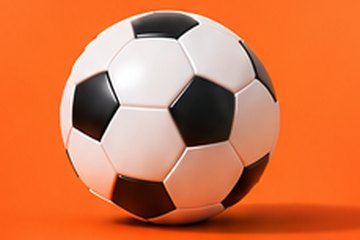
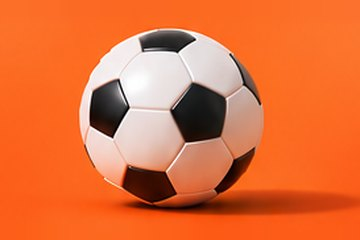
Photos des sports : l'objet toujours entier, avec de l'air autour
Claude-Session: https://claude.ai/code/session_01FDNBqmKmFA6Re7p9vrnkC1

diff --git a/scripts/decouper_sports.py b/scripts/decouper_sports.py
@@ -33,7 +33,10 @@ PLANCHE = [
 
 RAPPORT = 3 / 2  # largeur / hauteur de l'image finale
 TAILLE = (360, 240)  # assez pour une tuile d'environ 110 px de large en ×3
-RETRAIT = 14  # on enlève les coins arrondis de chaque carte
+RETRAIT_COTES = 14  # on enlève les coins arrondis de chaque carte…
+RETRAIT_HAUT_BAS = 3  # …sans couper le haut des ballons
+MARGE_COTES = 0.12  # de l'air autour de l'objet, en part de sa taille
+MARGE_HAUT_BAS = 0.16
 
 
 def plages(profil: list[float], seuil: float = 0.8) -> list[tuple[int, int]]:
@@ -78,38 +81,40 @@ def boite_objet(carte: Image.Image) -> tuple[int, int, int, int]:
     return min(xs), min(ys), max(xs), max(ys)
 
 
-def recadrer(carte: Image.Image) -> Image.Image:
+def prolonger(carte: Image.Image, ajout: int) -> Image.Image:
+    """La carte avec `ajout` pixels de fond en plus en haut et en bas : colonne par colonne, la teinte
+    du bord (les pixels de l'objet sont ignorés), jointure fondue là où il n'y a que du fond"""
     l, h = carte.size
-    x0, y0, x1, y1 = boite_objet(carte)
-    marge = 0.14
-    largeur = max(int((x1 - x0) * (1 + 2 * marge)), int(h * RAPPORT))
-    largeur = min(largeur, l)
-    hauteur = int(largeur / RAPPORT)
-    cx = (x0 + x1) // 2
-    gauche = max(0, min(l - largeur, cx - largeur // 2))
-    bande = carte.crop((gauche, 0, gauche + largeur, h))
-    if hauteur <= h:
-        cy = (y0 + y1) // 2
-        haut = max(0, min(h - hauteur, cy - hauteur // 2))
-        return bande.crop((0, haut, largeur, haut + hauteur))
-    # Objet trop large : on prolonge le fond en haut et en bas, colonne par colonne, avec la teinte
-    # du bord (les pixels de l'objet sont ignorés), et on fond la jointure là où il n'y a que du fond
-    ajout = hauteur - h
-    dessus = ajout // 2
-    toile = Image.new('RGB', (largeur, hauteur))
-    milieu = dessus + h // 2
-    toile.paste(ligne_bord(bande, 0, 8).resize((largeur, milieu), Image.NEAREST), (0, 0))
-    toile.paste(ligne_bord(bande, h - 8, h).resize((largeur, hauteur - milieu), Image.NEAREST), (0, milieu))
+    hauteur = h + 2 * ajout
+    toile = Image.new('RGB', (l, hauteur))
+    milieu = ajout + h // 2
+    toile.paste(ligne_bord(carte, 0, 8).resize((l, milieu), Image.NEAREST), (0, 0))
+    toile.paste(ligne_bord(carte, h - 8, h).resize((l, hauteur - milieu), Image.NEAREST), (0, milieu))
     fondu = 16
-    masque = Image.new('L', (largeur, h), 255)
-    mp, bp = masque.load(), bande.load()
+    masque = Image.new('L', (l, h), 255)
+    mp, bp = masque.load(), carte.load()
     for y in range(h):
         a = min(255, int(255 * min(y, h - 1 - y) / fondu))
         if a < 255:
-            for x in range(largeur):
+            for x in range(l):
                 mp[x, y] = a if est_fond(bp[x, y]) else 255
-    toile.paste(bande, (0, dessus), masque)
+    toile.paste(carte, (0, ajout), masque)
     return toile
+
+
+def recadrer(carte: Image.Image) -> Image.Image:
+    """Cadre 3:2 qui contient TOUT l'objet, avec de l'air autour (le fond est prolongé si besoin)"""
+    l, h = carte.size
+    x0, y0, x1, y1 = boite_objet(carte)
+    largeur = max((x1 - x0) * (1 + 2 * MARGE_COTES), (y1 - y0) * (1 + 2 * MARGE_HAUT_BAS) * RAPPORT)
+    largeur = int(min(largeur, l))
+    hauteur = int(largeur / RAPPORT)
+    ajout = h  # largement assez de fond en haut et en bas
+    grande = prolonger(carte, ajout)
+    cx, cy = (x0 + x1) // 2, (y0 + y1) // 2 + ajout
+    gauche = max(0, min(l - largeur, cx - largeur // 2))
+    haut = cy - hauteur // 2
+    return grande.crop((gauche, haut, gauche + largeur, haut + hauteur))
 
 
 def ligne_bord(image: Image.Image, ya: int, yb: int) -> Image.Image:
@@ -139,7 +144,7 @@ def main() -> None:
     os.makedirs(SORTIE, exist_ok=True)
     for (ya, yb), noms in zip(rangees, PLANCHE):
         for (xa, xb), nom in zip(colonnes, noms):
-            carte = planche.crop((xa + RETRAIT, ya + RETRAIT, xb - RETRAIT, yb - RETRAIT))
+            carte = planche.crop((xa + RETRAIT_COTES, ya + RETRAIT_HAUT_BAS, xb - RETRAIT_COTES, yb - RETRAIT_HAUT_BAS))
             image = recadrer(carte).resize(TAILLE, Image.LANCZOS)
             image.save(os.path.join(SORTIE, f'{nom}.jpg'), quality=86, optimize=True, progressive=True)
             print(nom, image.size)

diff --git a/CLAUDE.md b/CLAUDE.md
@@ -81,7 +81,7 @@ Les fichiers `design/canvas/*.dc.html` sont générés par `design/canvas/genere
 - **La carte revue (25 novembre, 4 choix de Maxime après maquettes : https://claude.ai/artifact/WopYaEQW5861Vg2SdVLMt4)** : **pastilles P2** = anneau segmenté (un trait par joueur, `lib/anneau-places.ts`, testé) avec le picto, étiquette de l'heure posée dessus (`etiquettePastille`, `etiquetteGroupe` dans `lib/formats.ts`), orange à 1-2 places, rouge en direct ; bulle = disque pointillé avec le nombre ; zone de toucher recalculée (`PASTILLE`, `taillePastille` dans `lib/regroupement-sessions.ts`). **Fiche F3** (`components/fiche-session.tsx`) : bandeau rouge, phrase « Foot à 5 dans 3 h, à 3 km » (`quandFiche`, testé), Catch blanc dedans (`BoutonCatch surBandeau`), ligne lieu + places dessous. **Carte vide A** (`components/ligne-carte-vide.tsx`) : une ligne « Rien à 5 km · Voir à 9 km › » (remplace `carte-plus-proche`). **Barre du haut B2** (`components/barre-haut.tsx` + `components/menu-filtre.tsx`) : pastille « catch | Tous les sports ⌄ » qui ouvre un menu de tuiles de sports avec le nombre de sessions, + rond Liste/Carte ; **remplace l'étoile, sa feuille, le petit message et la bulle** (`toast-mes-sports`, `FeuilleMesSports`, `BulleMesSports` supprimés ; `GrilleMesSports` reste pour Profil > Mes sports). Depuis « Tous les sports », toucher un sport le choisit seul (`choisirSeul`). Le choix reste enregistré sur le téléphone comme avant. Vu sur le web en clair et en sombre, **pas sur un vrai iPhone** (à regarder : anneaux sur Apple Plans, bords pointillés des bulles, menu des sports).
 - **Terrains en bandeau dans Mes sessions (25 novembre, demande de Maxime)** : chaque carte de l'onglet Mes sessions a en haut l'illustration du terrain de son sport (18 sports), « Tu organises » posé dessus. Les images ne sont pas dessinées à l'œil : `scripts/generer_terrains.py` construit chaque terrain en 3D à partir des **dimensions officielles** (FIFA, FIBA, FIVB, ITF, FIP, BWF, WSF, ITTF, World Rugby, WFDF, piste de 400 m…) et le met en perspective (`design/terrains/*.svg`), puis `node scripts/rendre_terrains.mjs` les rend en JPEG (`assets/terrains/*.jpg`, ~48 Ko chacune ; branchées dans `donnees/terrains.ts`). Modifier le script, pas les images. **Refaites le 25 novembre (Maxime : « il manque un designer »)** : cadrage serré sur ce qui fait reconnaître le sport (but et penalty, raquette et panier…), ombres portées du soleil, grain, ballon ; toujours tout en orange (demande de Maxime). Maxime veut les confier à un illustrateur professionnel : dossier remis avec les SVG, des PNG 2400 × 1200 et un brief (dimensions officielles, palette, format 2:1 coupé en bandeau). Quand il rendra ses images : les mettre en JPEG dans `assets/terrains/` (mêmes noms) et ne plus lancer le script. Pas encore dans les tuiles de Créer (Maxime : « peut-être par après »). Pas vu sur un vrai iPhone.
 
-- **Photos des sports dans les tuiles (25 novembre, demande de Maxime)** : quand on choisit un sport, dans Créer (étape « sport », 3 par rangée) et dans Profil > Mes sports, chaque tuile montre la photo du sport sur fond orange (planche fournie par Maxime : `design/sports/planche-sports.png`), le nom dessous ; choisie = contour couleur encre + coche rouge, la photo se tasse sous le doigt (`components/tuile-sport.tsx`). Les images sont découpées par `python3 -I scripts/decouper_sports.py` (recadrées en 3:2 autour de l'objet, fond prolongé si besoin) vers `assets/sports/*.jpg`, branchées dans `donnees/images-sports.ts` : remplacer la planche et relancer le script, pas retoucher les images. Le menu des sports de la carte garde ses pictos (tuiles plus petites, avec le nombre de sessions). Pas vu sur un vrai iPhone.
+- **Photos des sports dans les tuiles (25 novembre, demande de Maxime)** : quand on choisit un sport, dans Créer (étape « sport », 3 par rangée) et dans Profil > Mes sports, chaque tuile montre la photo du sport sur fond orange (planche fournie par Maxime : `design/sports/planche-sports.png`), le nom dessous ; choisie = contour couleur encre + coche rouge, la photo se tasse sous le doigt (`components/tuile-sport.tsx`). Les images sont découpées par `python3 -I scripts/decouper_sports.py` (recadrées en 3:2 avec l'objet toujours entier et de l'air autour, fond orange prolongé si besoin) vers `assets/sports/*.jpg`, branchées dans `donnees/images-sports.ts` : remplacer la planche et relancer le script, pas retoucher les images. Le menu des sports de la carte garde ses pictos (tuiles plus petites, avec le nombre de sessions). Pas vu sur un vrai iPhone.
 
 Plan complet dans `docs/produit.md`.
 
